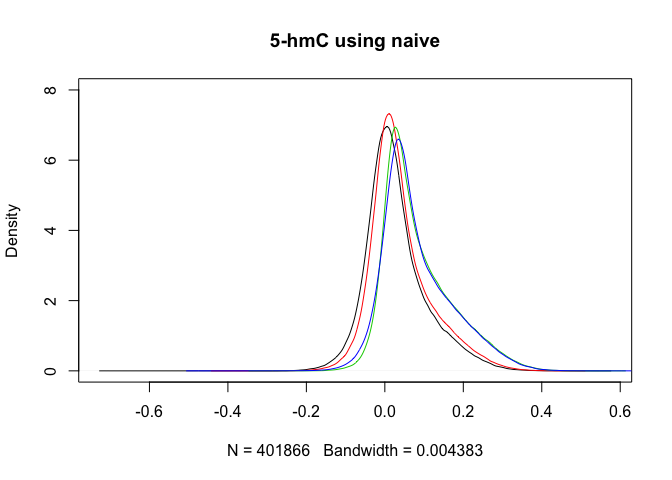
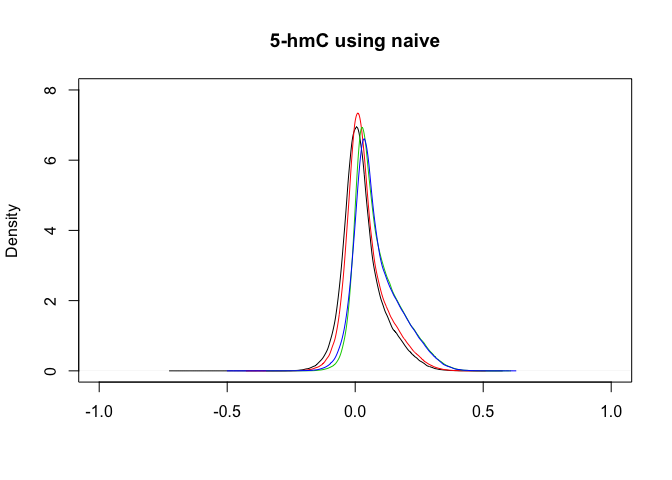
oxyBS example

diff --git a/README.md b/README.md
@@ -1,7 +1,8 @@
-# `MLML2R` package
+# `MLML2R`: and R package for consistent simultaneous maximum likelihood estimates of DNA methylation and hydroxymethylation using R
+Samara F. Kiihl, Maria Tellez-Plaza  
 
 
-## Introduction
+# Introduction
 
 
 This document presents an example of the usage of the `MLML2R` package for R.
@@ -27,10 +28,16 @@ Furthermore, our routine is flexible and can be used with both next generation s
 
 
 
-## Getting the data
+# Preparing dataset
+
+We will use the dataset from [Field *et al.* (2015)](https://doi.org/10.1371/journal.pone.0118202), which consists of eight DNA samples from the same DNA source treated with oxBS-BS and hybridized to the Infinium 450K array.
+
+The steps shown in this section follows [the vignette](https://kasperdanielhansen.github.io/genbioconductor/html/minfi.html) from `minfi` package.
+
+## Getting publicly available data
 
 We start with the steps to get the raw data from the GEO repository.
-The dataset used here is from [Accurate Measurement of 5-Methylcytosine and 5-Hydroxymethylcytosine in Human Cerebellum DNA by Oxidative Bisulfite on an Array (OxBS-Array)](https://doi.org/10.1371/journal.pone.0118202). Data from the paper are available at GEO accession [GSE63179](https://www.ncbi.nlm.nih.gov/geo/query/acc.cgi?acc=GSE63179).
+The dataset from [Field *et al.* (2015)](https://doi.org/10.1371/journal.pone.0118202) is available at GEO accession [GSE63179](https://www.ncbi.nlm.nih.gov/geo/query/acc.cgi?acc=GSE63179).
 
 The sample was divided into four BS and four oxBS replicates.
  	
@@ -214,6 +221,15 @@ save(rgSet,file="rgSet.rds")
 
 We refer the reader to the `minfi` package tutorials for more preprocessing options.
 
+
+We need to install the required package bellow:
+
+```r
+source("https://bioconductor.org/biocLite.R")
+biocLite("IlluminaHumanMethylation450kmanifest")
+```
+
+
 First, we removed probes with detection p-value $<0.01$ in any of the 8 arrays. The function `detectionP` identifies failed positions defined as both the methylated and unmethylated channel reporting background signal levels.
 
 
@@ -230,12 +246,6 @@ We kept $83\%$ of the probes according to this criterion.
 
 The `rgSet` object is a class called `RGChannelSet` which represents two color data with a green and a red channel. We will use, as input in the `MLML` funcion, a `MethylSet`, which contains the methylated and unmethylated signals. The most basic way to construct a `MethylSet` is to using the function `preprocessRaw` which uses the array design to match up the different probes and color channels to construct the methylated and unmethylated signals. 
 
-First, we need to install the required package bellow:
-
-```r
-source("https://bioconductor.org/biocLite.R")
-biocLite("IlluminaHumanMethylation450kmanifest")
-```
 
 
 ```r
@@ -263,7 +273,7 @@ main= sprintf('Beta values for filtered probes (n= %s)', nrow(MSet.swan)))
 ![](README_files/figure-html/unnamed-chunk-18-1.png)<!-- -->
 
 
-## Using the `MLML2R` package
+# Using the `MLML2R` package
 
 After all the preprocessing procedures, we now can use the `MLML2R` package to obtain the maximum likelihood estimates for the 5-hmC and 5-mC levels.
 
@@ -303,23 +313,28 @@ Plot of the results (we have 4 replicates)
 
 
 ```r
-plot(density(results$hmC[,1]),main= "5-hmC using MLML")
+par(mfrow =c(1,3)) 
+
+plot(density(results$hmC[,1]),main= "5-hmC using MLML",xlab=" ",xlim=c(0,1))
 lines(density(results$hmC[,2]),col=2)
 lines(density(results$hmC[,3]),col=3)
 lines(density(results$hmC[,4]),col=4)
-```
 
-![](README_files/figure-html/unnamed-chunk-22-1.png)<!-- -->
-
-```r
-plot(density(results$mC[,1]),main= "5-mC using MLML",ylim=c(0,5))
+plot(density(results$mC[,1]),main= "5-mC using MLML",ylim=c(0,5),xlab=" ",xlim=c(0,1))
 lines(density(results$mC[,2]),col=2)
 lines(density(results$mC[,3]),col=3)
 lines(density(results$mC[,4]),col=4)
+
+plot(density(results$C[,1]),main= "5-C using MLML",ylim=c(0,5),xlab=" ",xlim=c(0,1))
+lines(density(results$C[,2]),col=2)
+lines(density(results$C[,3]),col=3)
+lines(density(results$C[,4]),col=4)
 ```
 
-![](README_files/figure-html/unnamed-chunk-22-2.png)<!-- -->
+<img src="README_files/figure-html/unnamed-chunk-22-1.png" style="display: block; margin: auto;" />
 
+
+# Other methods to obtain the estimates
 
 ## Naive estimates
 
@@ -331,13 +346,104 @@ The naive approach to obtain 5-hmC levels is $\beta_{BS} -  \beta_{OxBS}$. This 
 beta_BS <- getBeta(MSet.swan)[,c(1,3,5,6)]
 beta_OxBS <- getBeta(MSet.swan)[,c(7,8,2,4)]
 hmC_naive <- beta_BS-beta_OxBS
+C_naive <- 1-beta_BS
+mC_naive <- beta_OxBS
+```
 
-plot(density(hmC_naive[,1]),main= "5-hmC using naive",ylim=c(0,8))
+
+
+```r
+par(mfrow =c(1,3)) 
+
+plot(density(hmC_naive[,1]),main= "5-hmC using naive",ylim=c(0,8),xlab=" ",xlim=c(-1,1))
 lines(density(hmC_naive[,2]),col=2)
 lines(density(hmC_naive[,3]),col=3)
 lines(density(hmC_naive[,4]),col=4)
+
+plot(density(mC_naive[,1]),main= "5-mC using naive",ylim=c(0,5),xlab=" ",xlim=c(0,1))
+lines(density(mC_naive[,2]),col=2)
+lines(density(mC_naive[,3]),col=3)
+lines(density(mC_naive[,4]),col=4)
+
+plot(density(C_naive[,1]),main= "5-C using naive",ylim=c(0,5),xlab=" ",xlim=c(0,1))
+lines(density(C_naive[,2]),col=2)
+lines(density(C_naive[,3]),col=3)
+lines(density(C_naive[,4]),col=4)
 ```
 
-![](README_files/figure-html/unnamed-chunk-23-1.png)<!-- -->
+<img src="README_files/figure-html/unnamed-chunk-24-1.png" style="display: block; margin: auto;" />
 
+## `OxyBS` estimates
+
+For the specific case where only ox-BS and BS data are available, `OxyBS` package from [Houseman *et al.* (2016)](https://www.ncbi.nlm.nih.gov/pmc/articles/PMC4978924/) can be use to obtain estimates.
+
+
+
+
+```r
+library(OxyBS)
+
+# Methylated signals from the BS and oxBS arrays
+methBS <- MethylatedBS
+methOxBS <- MethylatedOxBS
+# Unmethylated signals from the BS and oxBS arrays
+unmethBS <- UnMethylatedBS
+unmethOxBS <- UnMethylatedOxBS
+
+# Calculate Total Signals
+signalBS <- methBS+unmethBS
+signalOxBS <- methOxBS+unmethOxBS
+
+# Calculate Beta Values
+betaBS <- methBS/signalBS
+betaOxBS <- methOxBS/signalOxBS
+
+####################################################
+# 4. Apply fitOxBS function to preprocessed values
+####################################################
+
+# Select the number of CpGs and Subjects to which the method will be applied 
+nCpGs <- dim(unmethOxBS)[1]
+nSpecimens <- dim(unmethOxBS)[2]
+
+# Create container for the OxyBS results
+MethOxy <- array(NA,dim=c(nCpGs,nSpecimens,3))
+dimnames(MethOxy) <- list(
+  rownames(methBS)[1:nCpGs],
+  colnames(methBS)[1:nSpecimens], c("C","5mC","5hmC"))
+
+# Process results (one array at a time, slow)
+for(i in 1:nSpecimens){
+MethOxy[,i,] <-fitOxBS(betaBS[,i],betaOxBS[,i],signalBS[,i],signalOxBS[,i])
+}
+```
+
+
+
+
+
+
+
+Plot of the results (we have 4 replicates)
+
+
+```r
+par(mfrow =c(1,3)) 
+plot(density(MethOxy[,1,3]),main= "5-hmC using OxyBS",xlab="")
+lines(density(MethOxy[,2,3]),col=2)
+lines(density(MethOxy[,3,3]),col=3)
+lines(density(MethOxy[,4,3]),col=4)
+
+plot(density(MethOxy[,1,2]),main= "5-mC using OxyBS",ylim=c(0,5),xlab="")
+lines(density(MethOxy[,2,2]),col=2)
+lines(density(MethOxy[,3,2]),col=3)
+lines(density(MethOxy[,4,2]),col=4)
+
+plot(density(MethOxy[,1,1]),main= "5-C using OxyBS",ylim=c(0,5),xlab="")
+lines(density(MethOxy[,2,1]),col=2)
+lines(density(MethOxy[,3,1]),col=3)
+lines(density(MethOxy[,4,1]),col=4)
+```
+
+<img src="README_files/figure-html/unnamed-chunk-28-1.png" style="display: block; margin: auto;" />
 
